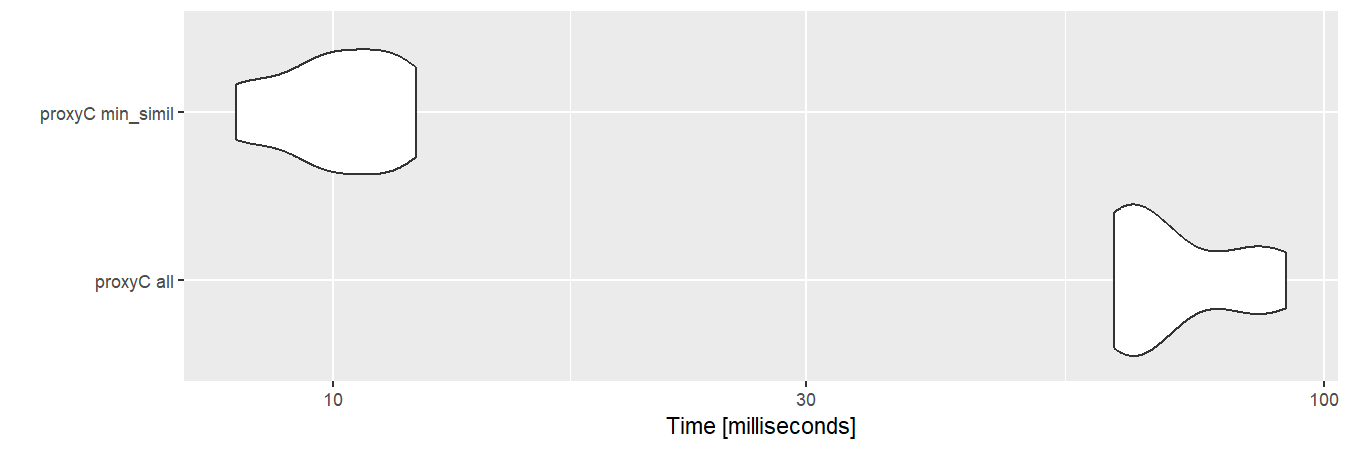
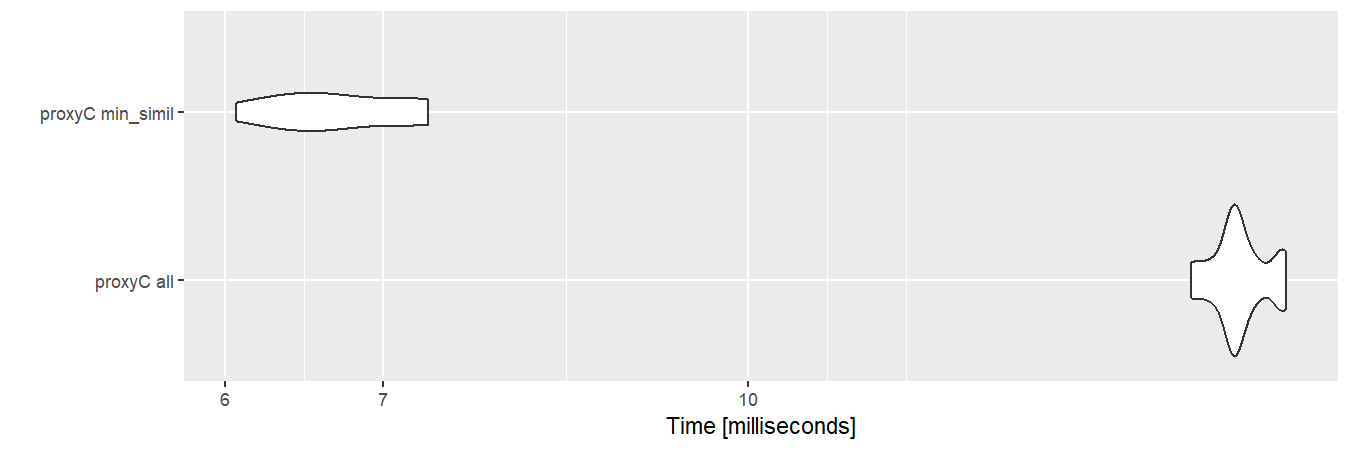
Update README

diff --git a/NEWS.md b/NEWS.md
@@ -2,7 +2,7 @@
 
 ## New features and improvements
 
-- Reduce the execution time by improving the efficiency in rounding numbers and creating Rcpp vectors.
+- Reduce the overhead for dense similarity matrices by improving rounding numbers and conversion to Rcpp vectors.
 
 # proxyC 0.4.1
 
